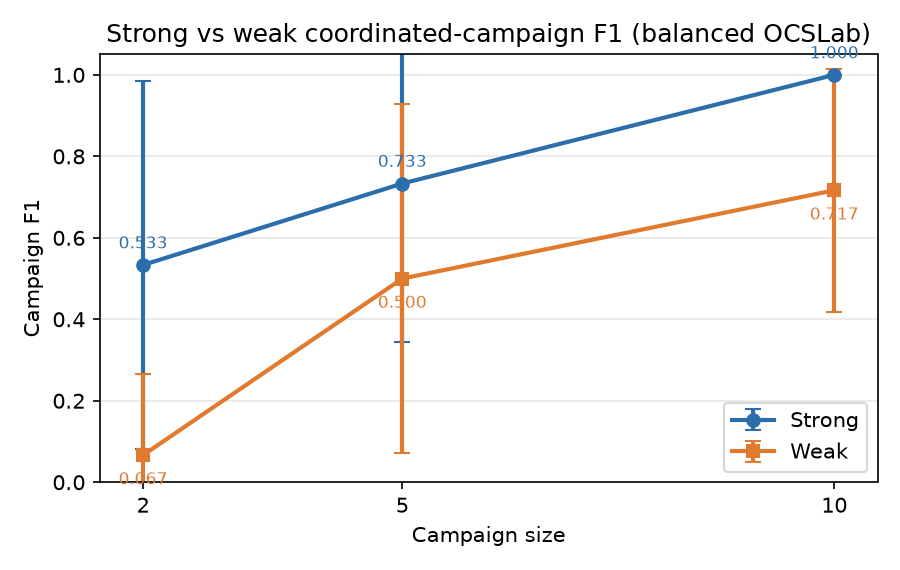
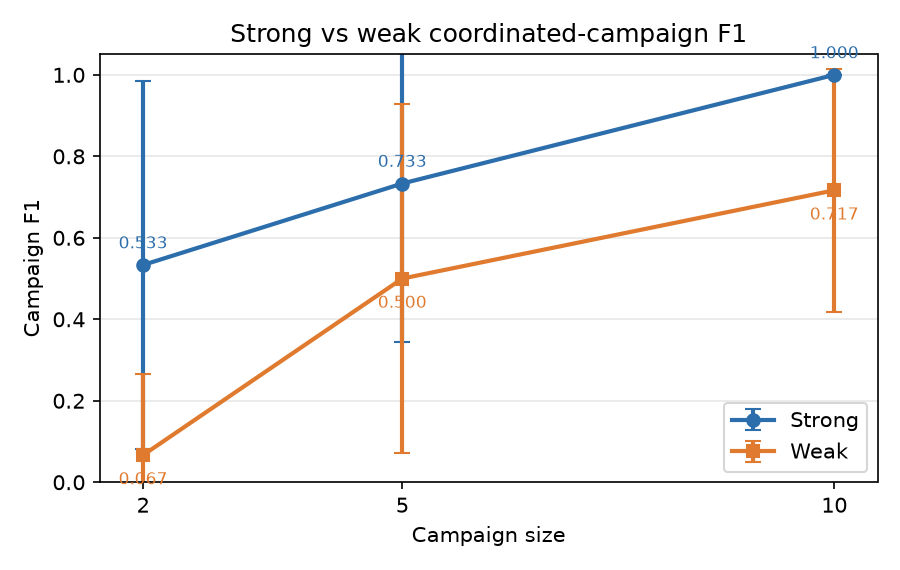
Remove balanced OCSLab label from figure P4 title

Changed region(s): [[0.1244, 0.0298, 0.9644, 0.0895]]

diff --git a/scripts/build_figure_P4_strong_vs_weak_campaign_f1.py b/scripts/build_figure_P4_strong_vs_weak_campaign_f1.py
@@ -74,7 +74,7 @@ def build_figure(means: dict[str, list[float]], stds: dict[str, list[float]]) ->
     ax.set_ylim(0.0, 1.05)
     ax.legend(loc="lower right", frameon=True)
     ax.grid(axis="y", alpha=0.3)
-    ax.set_title("Strong vs weak coordinated-campaign F1 (balanced OCSLab)")
+    ax.set_title("Strong vs weak coordinated-campaign F1")
 
     for cs, val in zip(x, means["Strong"], strict=True):
         ax.annotate(f"{val:.3f}", (cs, val), textcoords="offset points", xytext=(0, 8), ha="center", fontsize=8, color="#2c6eab")
